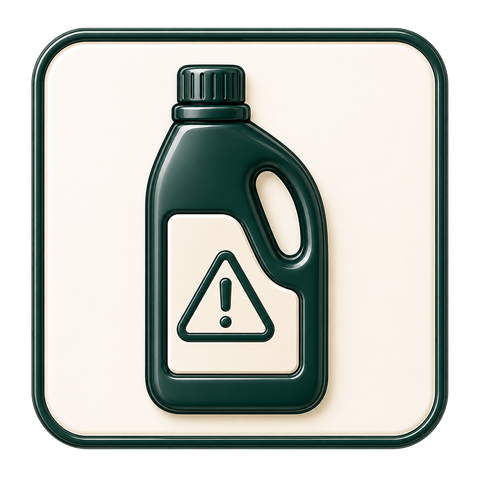
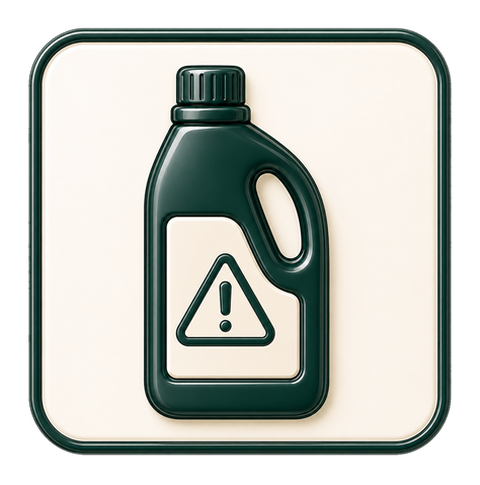
fix(hub): dimensões dos pictogramas normalizadas — todos com cobertura 88.5% do canvas (padrão condo-safety, eleito pelo autor); pet do Hub usa cópia normalizada própria

diff --git a/screens/Education/KnowledgeHubScreen.js b/screens/Education/KnowledgeHubScreen.js
@@ -45,7 +45,7 @@ const PICTOGRAMS = {
     seguranca_idade: require('../../assets/illustrations/education-pictograms/pictogram-familia-fases.png'),
     ambientes:       require('../../assets/illustrations/home-pictograms/icone_planta_baixa_ilustrativa.png'),
     gestante_segura: require('../../assets/illustrations/home-pictograms/icone_gestacao_casa.png'),
-    pets:            require('../../assets/illustrations/home-pictograms/pictogram-saude-pet.png'), // cerâmico da Home (pata+pulso)
+    pets:            require('../../assets/illustrations/education-pictograms/pictogram-pets-hub.png'), // cerâmico da Home, cópia normalizada (88.5%)
     brinquedos_hub:  require('../../assets/illustrations/home-pictograms/icone_brinquedos_sem_casa.png'),
     // Seções 2-5 — lote 1 do plano (15 assets). Descomentar conforme gerados:
     utensilios_rev:   require('../../assets/illustrations/education-pictograms/pictogram-utensilios-rev.png'),
